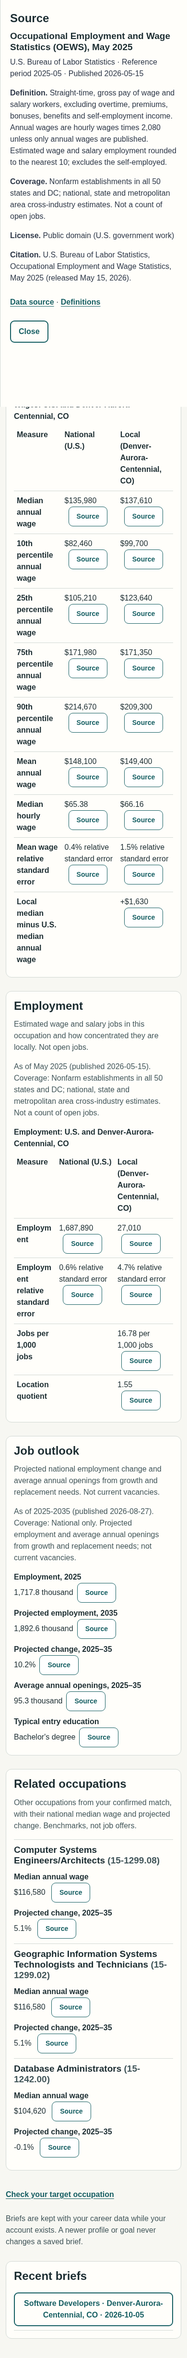
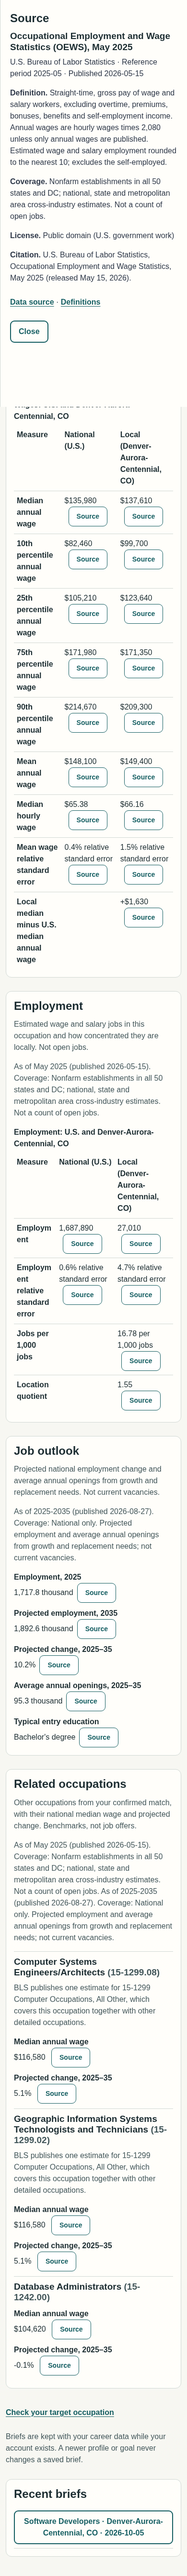
Record the shared-estimate fix and live-review rerun in the #382 review (#382)

Changed region(s): [[0.0308, 0.0, 0.9231, 0.9943], [0.8923, 0.9632, 0.9231, 0.9943], [0.7077, 0.87, 0.7385, 0.9011]]

diff --git a/docs/testing/career/382/REVIEW.md b/docs/testing/career/382/REVIEW.md
@@ -42,8 +42,17 @@ API fixtures (`MarketBriefBuilderTests`, `MarketReferenceTests`, `MarketAreaReso
 | R8 | Standards | P3 | Rapid brief switching could show an older response. | Fixed: brief loading uses `switchMap`. |
 | R9 | Standards | P3 | Corrupt stored JSON → 500; replayed null step stalls until lease expiry; first snapshot load on a request thread; free runs still need allowance headroom. | Accepted for this slice (rows written only by the runner; consistent with occupation_match). |
 | R10 | Spec | P3 | Export of briefs. | Owned by #392. |
-| R11 | Both | P1 | Shared published SOC estimates were marked exact and undisclosed (including related occupations); related occupations lacked their own as-of/coverage line. | Fixed: deterministic shared crosswalk, published code/title mapping notes for primary and related occupations, and related as-of/coverage from both item sources; automated tests added. Live-review rerun and screenshot refresh follow branch merge. |
+| R11 | Both | P1 | (auditor) Shared published SOC estimates were marked exact and undisclosed, including related occupations; the Related occupations section had no as-of/coverage line. | Fixed: crosswalk gains a `shared` type for every O*NET code whose published SOC estimate covers other O*NET occupations (178 in each source, verified: no code missing or wrongly marked); mapping notes name the published code and title in the main sections and beside each related occupation; related as-of/coverage cites both item sources. Builder and Playwright tests cover 15-1299.08. |
 
-Live review rerun after the fixes: 28 figures checked, 0 mismatches; 0 overflow / axe / page errors.
+## Live-review rerun after R11 (same script, real stack)
+
+| Check | Result |
+|---|---|
+| Primary wages/employment figures vs the raw snapshot | 28 checked, 0 mismatches |
+| Related-occupation figures vs the snapshot row of the code they were published under | 6 checked, 0 mismatches |
+| Shared-mapping disclosure beside related occupations | 15-1299.08 and 15-1299.02 both name 15-1299; exact mappings show no note |
+| Sections with an "As of … Coverage" line | 4 of 4 (Related occupations now included) |
+| Screenshots | `docs/testing/career/382` refreshed at desktop 1280, mobile 390 and 320 |
+| Overflow / axe WCAG 2.2 AA / page errors | 0 / 0 / 0 |
 
 Open P0/P1: **none**.
